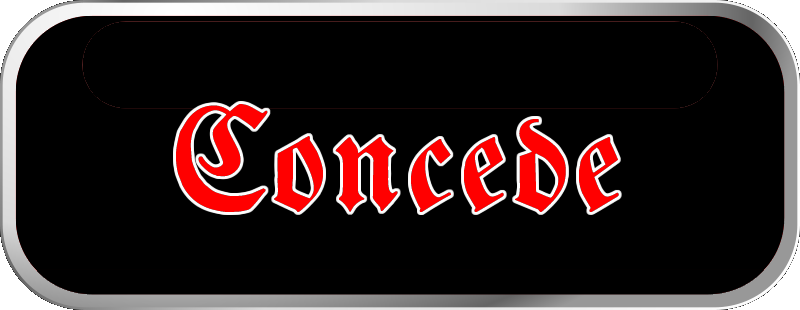
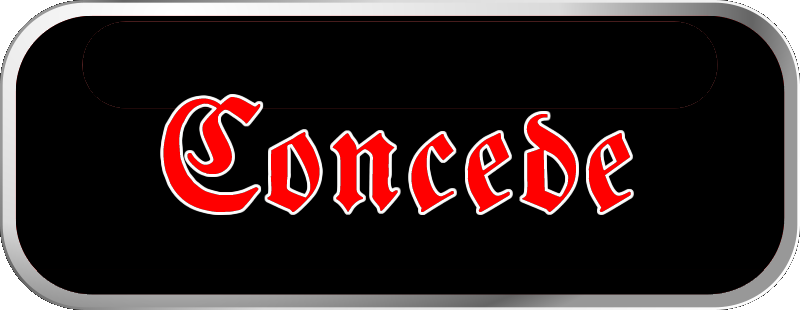
Added concede button to the pause menu

Changed region(s): [[0.1875, 0.2903, 0.8125, 0.6968]]

diff --git a/app/src/main/java/uk/ac/qub/eeecs/game/PauseMenuScreen.java b/app/src/main/java/uk/ac/qub/eeecs/game/PauseMenuScreen.java
@@ -1,16 +1,11 @@
 package uk.ac.qub.eeecs.game;
 
-import android.app.AlertDialog;
-import android.app.Notification;
 import android.graphics.Color;
-import android.view.View;
 
 import java.util.ArrayList;
 import java.util.List;
 
 import uk.ac.qub.eeecs.gage.Game;
-import uk.ac.qub.eeecs.gage.MainActivity;
-import uk.ac.qub.eeecs.gage.R;
 import uk.ac.qub.eeecs.gage.engine.ElapsedTime;
 import uk.ac.qub.eeecs.gage.engine.graphics.IGraphics2D;
 import uk.ac.qub.eeecs.gage.engine.input.Input;
@@ -28,7 +23,7 @@ public class PauseMenuScreen extends GameScreen {
 
     private List<PushButton> mButtons = new ArrayList<>();
 
-    private PushButton mMenuScreen, mResume, mOptions, mMainMenu;
+    private PushButton mMenuScreen, mResume, mOptions, mMainMenu, mConcede;
     private LayerViewport mMenuViewport;
 
     public PauseMenuScreen(Game game)
@@ -70,20 +65,25 @@ public class PauseMenuScreen extends GameScreen {
                 mDefaultLayerViewport.getHeight() / 2.0f, mDefaultLayerViewport.getWidth(),
                 mDefaultLayerViewport.getHeight(),"Pause", this);
         //Creating resume button
-        mResume = new PushButton(spacingX * 2.4f, spacingY * 1.9f,
-                spacingX * 1.0f,spacingY * 0.5f,"Resume",
+        mResume = new PushButton(spacingX * 2.5f, spacingY * 1.95f,
+                spacingX * 0.8f,spacingY * 0.39f,"Resume",
                 "ResumeSelected",this );
         mButtons.add(mResume);
         //Creating the options button
-        mOptions = new PushButton(spacingX * 2.4f, spacingY * 1.3f,
-                spacingX * 1.0f,spacingY * 0.5f,"Options",
+        mOptions = new PushButton(spacingX * 2.5f, spacingY * 1.45f,
+                spacingX * 0.8f,spacingY * 0.39f,"Options",
                 "OptionsSelected",this );
         mButtons.add(mOptions);
         //Creating the 'main menu' button
-        mMainMenu = new PushButton(spacingX * 2.4f, spacingY * 0.7f,
-                spacingX * 1.0f,spacingY * 0.5f,"MainMenu",
+        mMainMenu = new PushButton(spacingX * 2.5f, spacingY * 0.95f,
+                spacingX * 0.8f,spacingY * 0.39f,"MainMenu",
                 "MainMenuSelected",this );
         mButtons.add(mMainMenu);
+        //Creating the 'concede' button
+        mConcede = new PushButton(spacingX * 2.5f, spacingY * 0.45f,
+                spacingX * 0.8f,spacingY * 0.39f,"Concede",
+                "ConcedeSelected",this );
+        mButtons.add(mConcede);
     }
 
     @Override
@@ -103,9 +103,8 @@ public class PauseMenuScreen extends GameScreen {
             else if(mOptions.isPushTriggered())
                 mGame.getScreenManager().changeScreenButton((new OptionsScreen(mGame)));
             else if (mMainMenu.isPushTriggered())
-            {
                 mGame.getScreenManager().changeScreenButton(new MenuScreen(mGame));
-            }
+
         }
     }
     @Override
